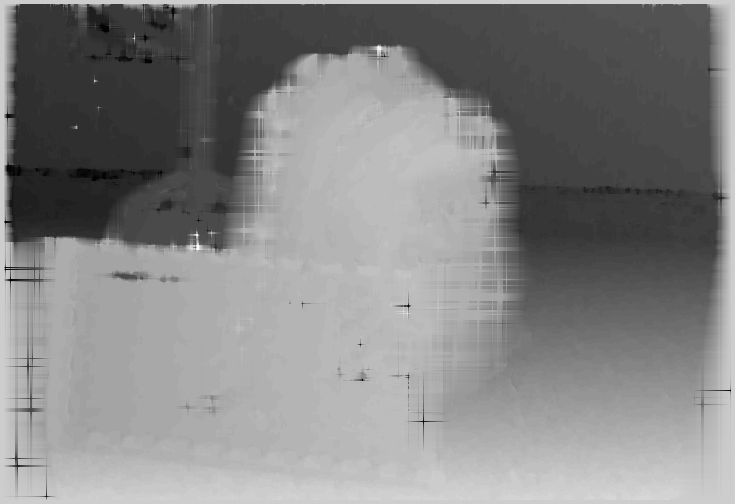
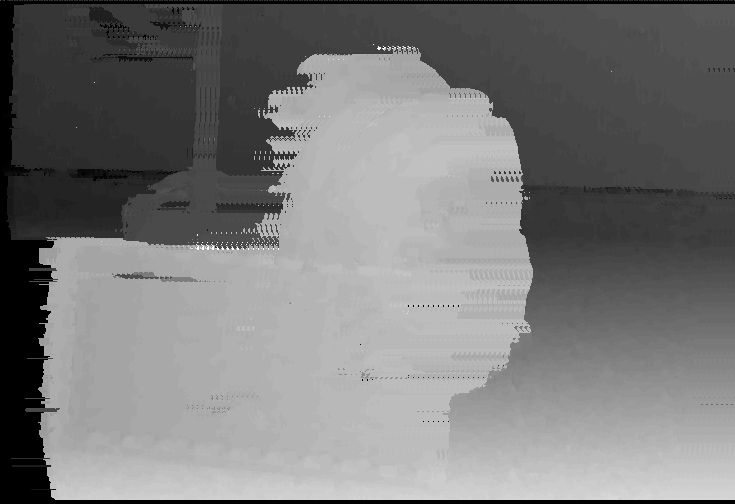
Make code C++ compliant and add paralellism

diff --git a/main.cpp b/main.cpp
@@ -1,9 +1,11 @@
-#include <stdio.h>
-#include <stdlib.h>
-#include <time.h>
-#include <math.h>
-#include <limits.h>
-#include <float.h>
+#include <iostream>
+#include <cstdlib>
+#include <ctime>
+#include <cmath>
+#include <limits>
+#include <cfloat>
+
+#include <omp.h>
 
 #ifdef _WIN32
 #include <windows.h>
@@ -13,7 +15,6 @@
 
 #include <CL/cl.h>
 #include "lodepng/lodepng.h"
-
 #define MAX_PLATFORMS 10
 #define MAX_INFO_SIZE 1024
 #define TEST_MATRIX_SIZE 100
@@ -188,11 +189,14 @@ void check_build_error(cl_int err, cl_program program, cl_device_id device, cons
 
 // foolproofed reading of kernel holy hell
 char* read_kernel_source(const char* filename, size_t* size) {
-	FILE* file = fopen(filename, "rb"); // open in binary mode why not brrrrrrrr
-    if (!file) {
+    FILE* file = nullptr;
+    errno_t err = fopen_s(&file, filename, "rb");  // Open in binary mode
+
+    if (err != 0 || !file) {
         printf("Failed to open kernel file: %s\n", filename);
         exit(1);
     }
+
 
     fseek(file, 0, SEEK_END);
     *size = ftell(file);
@@ -292,14 +296,18 @@ int matrix_addtion_test() {
     cl_context context = clCreateContext(NULL, 1, &device, NULL, NULL, NULL);
 
     // Create command queue with profiling enabled
-    cl_command_queue queue = clCreateCommandQueueWithProperties(context, device, (cl_queue_properties[]) { CL_QUEUE_PROPERTIES, CL_QUEUE_PROFILING_ENABLE, 0 }, NULL);
+    const cl_queue_properties props[] = { CL_QUEUE_PROPERTIES, CL_QUEUE_PROFILING_ENABLE, 0 };
+    cl_command_queue queue = clCreateCommandQueueWithProperties(context, device, props, NULL);
 
-    // Read kernel file
-    FILE* file = fopen("add_matrix.cl", "r");
-    if (!file) {
+
+    FILE* file = nullptr;
+    errno_t add_matrix_err = fopen_s(&file, "add_matrix.cl", "r");  // Open in text mode
+
+    if (add_matrix_err != 0 || !file) {
         printf("Failed to open kernel file.\n");
         exit(1);
     }
+
     char* kernel_source = (char*)malloc(8192);
     size_t kernel_size = fread(kernel_source, 1, 8192, file);
     fclose(file);
@@ -437,7 +445,11 @@ void process_image_opencl(const char* input_filename, const char* output_filenam
     check_error(err, "Getting Device");
     context = clCreateContext(NULL, 1, &device, NULL, NULL, &err);
     check_error(err, "Creating Context");
-    queue = clCreateCommandQueueWithProperties(context, device, (cl_queue_properties[]) { CL_QUEUE_PROPERTIES, CL_QUEUE_PROFILING_ENABLE, 0 }, & err);
+
+    const cl_queue_properties props[] = { CL_QUEUE_PROPERTIES, CL_QUEUE_PROFILING_ENABLE, 0 };
+
+    queue = clCreateCommandQueueWithProperties(context, device, props, &err);
+
     check_error(err, "Creating Queue");
 
     // create buffers
@@ -570,10 +582,7 @@ float compute_zncc(const unsigned char* left, const unsigned char* right, unsign
     float meanL = compute_mean(left, width, x, y, win_size);
     float meanR = compute_mean(right, width, x - d, y, win_size);
 
-    float numerator = 0.0f;
-    float denomL = 0.0f;
-    float denomR = 0.0f;
-
+    float numerator = 0.0f, denomL = 0.0f, denomR = 0.0f;
     for (int j = -(int)win_size / 2; j <= (int)win_size / 2; j++) {
         for (int i = -(int)win_size / 2; i <= (int)win_size / 2; i++) {
             float l_val = left[(y + j) * width + (x + i)] - meanL;
@@ -583,20 +592,23 @@ float compute_zncc(const unsigned char* left, const unsigned char* right, unsign
             denomR += r_val * r_val;
         }
     }
-    return numerator / (sqrtf(denomL * denomR));
+    return numerator / (sqrtf(denomL * denomR) + 1e-5f);
 }
 
 unsigned char* compute_disparity(const unsigned char* left, const unsigned char* right, unsigned width, unsigned height, int reverse) {
     unsigned char* disparity_map = (unsigned char*)malloc(width * height * sizeof(unsigned char));
 
-    for (unsigned y = WINDOW_SIZE / 2; y < height - WINDOW_SIZE / 2; y++) {
+    #pragma omp parallel for collapse(3)
+    for (int y = WINDOW_SIZE / 2; y < height - WINDOW_SIZE / 2; y++) {
+        if (omp_get_thread_num() == 0) {
+            printf("Using %d threads\n", omp_get_num_threads());
+        }
         for (unsigned x = WINDOW_SIZE / 2; x < width - WINDOW_SIZE / 2; x++) {
             float max_zncc = -FLT_MAX;
             unsigned char best_d = 0;
 
             for (unsigned d = 0; d <= MAX_DISPARITY; d++) {
                 if ((!reverse && x < d + (int)(WINDOW_SIZE / 2)) || (reverse && x + d >= width - (int)(WINDOW_SIZE / 2))) continue;
-
                 float zncc_val = compute_zncc(
                     reverse ? right : left,
                     reverse ? left : right,
@@ -606,132 +618,58 @@ unsigned char* compute_disparity(const unsigned char* left, const unsigned char*
                     reverse ? -(int)d : (int)d,
                     WINDOW_SIZE
                 );
-
                 if (zncc_val > max_zncc) {
                     max_zncc = zncc_val;
-                    best_d = (unsigned char)(abs(d) * 255 / MAX_DISPARITY); // Store positive disparity
+                    best_d = (unsigned char)(d * 255 / MAX_DISPARITY);
                 }
             }
-
             disparity_map[y * width + x] = best_d;
         }
     }
-
     return disparity_map;
 }
 
-// Perform cross-checking to consolidate disparity maps
 unsigned char* cross_check_disparity(const unsigned char* left_disparity, const unsigned char* right_disparity, unsigned width, unsigned height, unsigned threshold) {
     unsigned char* consolidated_map = (unsigned char*)malloc(width * height * sizeof(unsigned char));
 
-    for (unsigned y = 0; y < height; y++) {
+    #pragma omp parallel for schedule(dynamic) collapse(2)
+    for (int y = 0; y < height; y++) {
         for (unsigned x = 0; x < width; x++) {
             unsigned char dL = left_disparity[y * width + x];
             unsigned char dR = right_disparity[y * width + x];
-
-            if (abs(dL - dR) > threshold) {
-                consolidated_map[y * width + x] = 0;
-            }
-            else {
-                consolidated_map[y * width + x] = dL;
-            }
+            consolidated_map[y * width + x] = (abs(dL - dR) > threshold) ? 0 : dL;
         }
     }
-
     return consolidated_map;
 }
 
-
-int is_valid_pixel(unsigned char val) {
-    return val > 0;
-}
-
 void occlusion_filling(unsigned char* disparity_map, unsigned width, unsigned height) {
-    unsigned char* filled_disparity = (unsigned char*)malloc(width * height * sizeof(unsigned char));
-    if (!filled_disparity) {
-        printf("Memory allocation failed.\n");
-        return;
-    }
-
-    memcpy(filled_disparity, disparity_map, width * height * sizeof(unsigned char));
-
-    for (unsigned y = 0; y < height; y++) {
+    #pragma omp parallel for schedule(dynamic) collapse(2)
+    for (int y = 0; y < height; y++) {
         for (unsigned x = 0; x < width; x++) {
             if (disparity_map[y * width + x] == 0) {
-                unsigned char candidates[4] = { 0, 0, 0, 0 };
-                float weights[4] = { 0, 0, 0, 0 };
-
-                // Scan left
-                for (int lx = x - 1; lx >= 0; lx--) {
-                    if (is_valid_pixel(disparity_map[y * width + lx])) {
-                        candidates[0] = disparity_map[y * width + lx];
-                        weights[0] = 1.0f / (x - lx);
+                for (int dx = -5; dx <= 5; dx++) {
+                    int nx = x + dx;
+                    if (nx >= 0 && nx < (int)width && disparity_map[y * width + nx] > 0) {
+                        disparity_map[y * width + x] = disparity_map[y * width + nx];
                         break;
                     }
-                }
-
-                // Scan right
-                for (int rx = x + 1; rx < (int)width; rx++) {
-                    if (is_valid_pixel(disparity_map[y * width + rx])) {
-                        candidates[1] = disparity_map[y * width + rx];
-                        weights[1] = 1.0f / (rx - x);
-                        break;
-                    }
-                }
-
-                // Scan up
-                for (int uy = y - 1; uy >= 0; uy--) {
-                    if (is_valid_pixel(disparity_map[uy * width + x])) {
-                        candidates[2] = disparity_map[uy * width + x];
-                        weights[2] = 1.0f / (y - uy);
-                        break;
-                    }
-                }
-
-                // Scan down
-                for (int dy = y + 1; dy < (int)height; dy++) {
-                    if (is_valid_pixel(disparity_map[dy * width + x])) {
-                        candidates[3] = disparity_map[dy * width + x];
-                        weights[3] = 1.0f / (dy - y);
-                        break;
-                    }
-                }
-
-                float weighted_sum = 0.0f;
-                float total_weight = 0.0f;
-
-                for (int i = 0; i < 4; i++) {
-                    if (candidates[i] > 0) {
-                        weighted_sum += candidates[i] * weights[i];
-                        total_weight += weights[i];
-                    }
-                }
-
-                if (total_weight > 0) {
-                    filled_disparity[y * width + x] = (unsigned char)(weighted_sum / total_weight);
                 }
             }
         }
     }
-
-    memcpy(disparity_map, filled_disparity, width * height * sizeof(unsigned char));
-    free(filled_disparity);
 }
 
 int main() {
     unsigned width, height, new_width, new_height;
-
     unsigned char* left_image = ReadImage("im0.png", &width, &height);
     unsigned char* right_image = ReadImage("im1.png", &width, &height);
 
-    double start_time = get_time();
-
+    double start_time = omp_get_wtime();
     unsigned char* left_resized = ResizeImage(left_image, width, height, &new_width, &new_height);
     unsigned char* right_resized = ResizeImage(right_image, width, height, &new_width, &new_height);
-
     unsigned char* left_gray = GrayScaleImage(left_resized, new_width, new_height);
     unsigned char* right_gray = GrayScaleImage(right_resized, new_width, new_height);
-
     unsigned char* left_filtered = ApplyFilter(left_gray, new_width, new_height);
     unsigned char* right_filtered = ApplyFilter(right_gray, new_width, new_height);
 
@@ -741,23 +679,19 @@ int main() {
     unsigned char* consolidated_disparity = cross_check_disparity(left_disparity, right_disparity, new_width, new_height, 8);
     occlusion_filling(consolidated_disparity, new_width, new_height);
 
-    double end_time = get_time();
-
-    printf("Execution time %f seconds", end_time - start_time);
-    // Execution time 37.296770 seconds with ryzen 7 5800x3d
+    double end_time = omp_get_wtime();
+    printf("Execution time %f seconds\n", end_time - start_time);
+    // Execution time 9.3 seconds with ryzen 7 5800x3d
+    // 1.3 seconds with opm
 
     WriteImage("disparity_map.png", left_disparity, new_width, new_height);
     WriteImage("disparity_map2.png", right_disparity, new_width, new_height);
     WriteImage("final_disparity.png", consolidated_disparity, new_width, new_height);
 
-    free(left_image);
-    free(right_image);
-    free(left_resized);
-    free(right_resized);
-    free(left_gray);
-    free(right_gray);
-    free(left_disparity);
-    free(right_disparity);
-
+    free(left_image); free(right_image);
+    free(left_resized); free(right_resized);
+    free(left_gray); free(right_gray);
+    free(left_disparity); free(right_disparity);
+    free(consolidated_disparity);
     return 0;
 }
